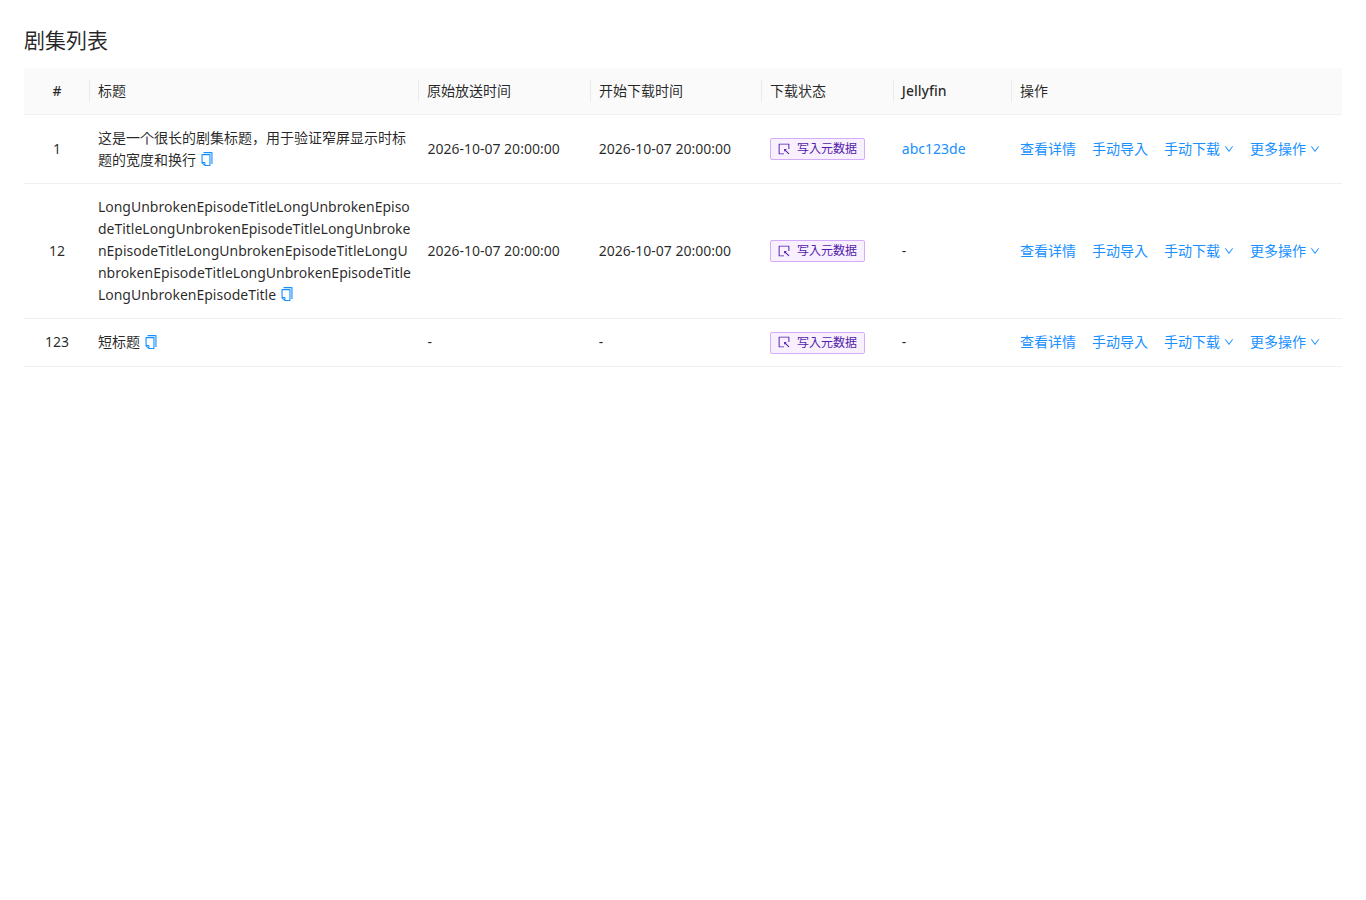
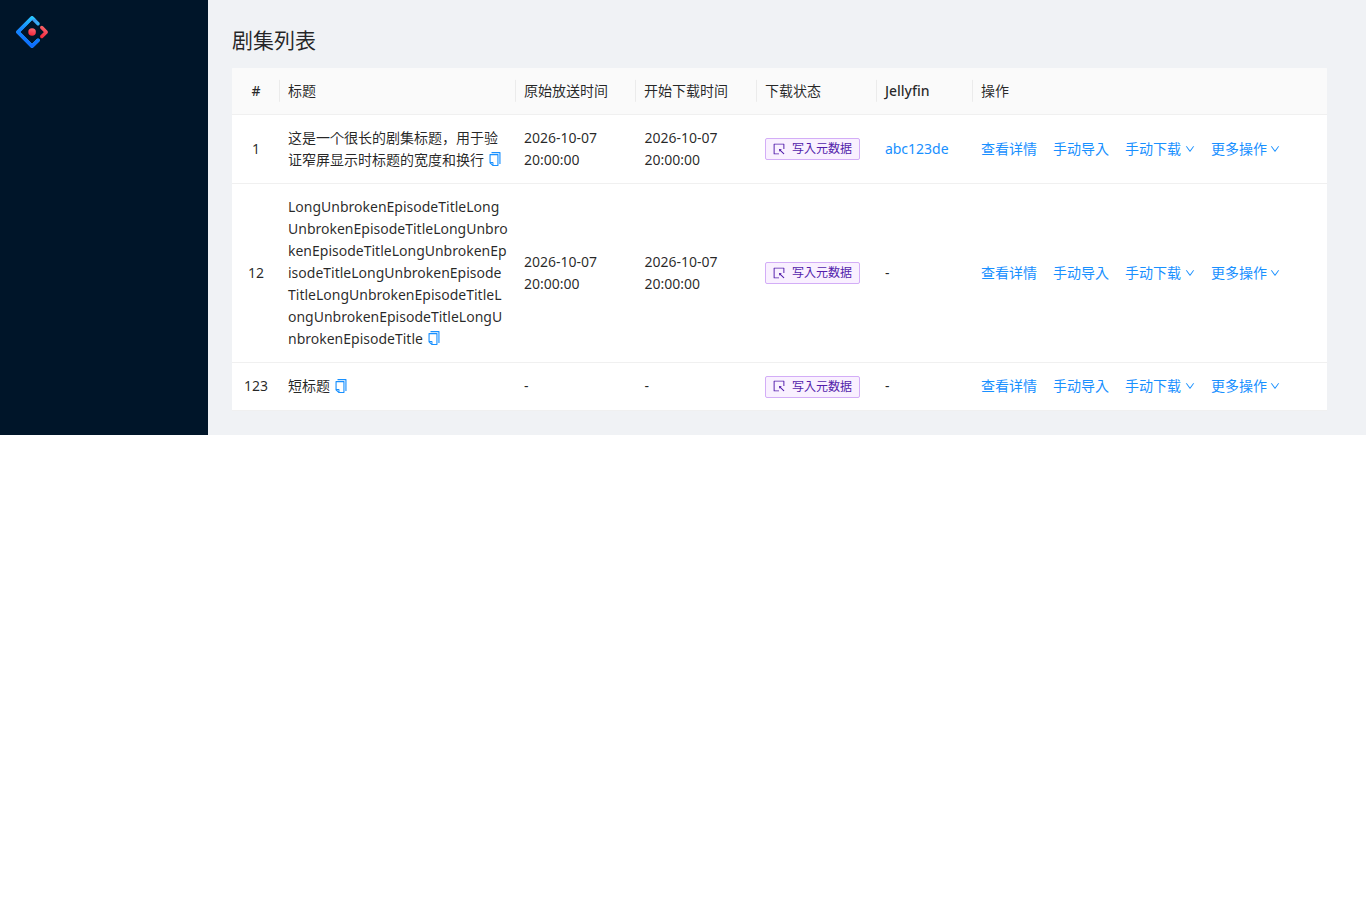
fix(admin): 按表格实际空间分配剧集列宽

diff --git a/apps/admin/src/pages/season/parts/episodes/index.tsx b/apps/admin/src/pages/season/parts/episodes/index.tsx
@@ -28,6 +28,7 @@ import { DownOutlined, InfoCircleOutlined } from '@ant-design/icons';
 import { ProFormSelect, ProFormSwitch } from '@ant-design/pro-form';
 import ProTable, { ActionType, ProColumns } from '@ant-design/pro-table';
 import { useApolloClient, useQuery } from '@apollo/client';
+import { useSize } from 'ahooks';
 import {
   Alert,
   Button,
@@ -49,6 +50,9 @@ import {
   useSeasonPageContext,
 } from '../../help';
 import styles from './index.module.less';
+
+const fixedColumnWidths = { index: 48, status: 120, jellyfin: 96 };
+const minTableWidth = 900;
 
 const EpisodesStatusContext = createContext<
   Record<number, EpisodeStatusFields> | undefined
@@ -77,12 +81,14 @@ function EpisodeStatusTag({
 }
 
 function useColumns({
+  tableWidth,
   openDownloadMagnet,
   openEpisodeDetails,
   openSearchTorrent,
   openImportSingleDialog,
   refetchEpisodesStatus,
 }: {
+  tableWidth: number;
   openEpisodeDetails: ReturnType<typeof useEpisodeDetailsDialog>[2];
   openDownloadMagnet: ReturnType<typeof useManualDownloadMagnetDialog>[2];
   openSearchTorrent: ReturnType<typeof useSearchTorrentDialog>[2];
@@ -96,38 +102,44 @@ function useColumns({
   const config = useConfig();
 
   const client = useApolloClient();
+  const timeColumnWidth = Math.min(176, Math.max(104, tableWidth * 0.11));
+  const remainingColumnWidth =
+    tableWidth -
+    fixedColumnWidths.index -
+    fixedColumnWidths.status -
+    fixedColumnWidths.jellyfin -
+    timeColumnWidth * 2;
   return useMemo(
     (): ProColumns<Episode>[] => [
       {
         title: '#',
         dataIndex: 'index',
         align: 'center',
-        width: '5%',
+        width: fixedColumnWidths.index,
       },
       {
         title: '标题',
         dataIndex: 'title',
-        width: '25%',
+        width: remainingColumnWidth * 0.4,
         copyable: true,
         ellipsis: false,
       },
       {
         title: '原始放送时间',
         dataIndex: 'rawAirTime',
-        width: '13%',
+        width: timeColumnWidth,
         valueType: 'dateTime',
       },
       {
         title: '开始下载时间',
         dataIndex: 'airTime',
-        width: '13%',
+        width: timeColumnWidth,
         valueType: 'dateTime',
       },
       {
         title: '下载状态',
         dataIndex: 'jobStatus',
-        width: '10%',
-        className: styles.statusCell,
+        width: fixedColumnWidths.status,
         render: (_, r) => (
           <EpisodeStatusTag
             episode={r}
@@ -151,7 +163,7 @@ function useColumns({
           ) : (
             '-'
           ),
-        width: '9%',
+        width: fixedColumnWidths.jellyfin,
       },
       {
         title: '操作',
@@ -292,10 +304,12 @@ function useColumns({
           </Dropdown>,
         ],
         search: false,
-        width: '25%',
+        width: remainingColumnWidth * 0.6,
       },
     ],
     [
+      timeColumnWidth,
+      remainingColumnWidth,
       openDownloadMagnet,
       openEpisodeDetails,
       openSearchTorrent,
@@ -370,7 +384,10 @@ export default function Episodes() {
     useImportMultipleDialog();
   const { episodesStatus, refetchEpisodesStatus } = useEpisodeStatus(episodes);
 
+  const tableRef = useRef<HTMLDivElement>(null);
+  const tableSize = useSize(tableRef);
   const columns = useColumns({
+    tableWidth: Math.max(minTableWidth, tableSize?.width ?? 0),
     openDownloadMagnet,
     openEpisodeDetails,
     openSearchTorrent,
@@ -521,19 +538,20 @@ export default function Episodes() {
         </div>
       </Form.Item>
       <EpisodesStatusContext.Provider value={episodesStatus}>
-        <ProTable<Episode>
-          columns={columns}
-          dataSource={episodes}
-          rowKey="id"
-          pagination={false}
-          toolBarRender={false}
-          search={false}
-          defaultSize="middle"
-          tableLayout="fixed"
-          scroll={{ x: 900 }}
-          actionRef={ref}
-          className={styles.table}
-        />
+        <div ref={tableRef} className={styles.table}>
+          <ProTable<Episode>
+            columns={columns}
+            dataSource={episodes}
+            rowKey="id"
+            pagination={false}
+            toolBarRender={false}
+            search={false}
+            defaultSize="middle"
+            tableLayout="fixed"
+            scroll={{ x: minTableWidth }}
+            actionRef={ref}
+          />
+        </div>
       </EpisodesStatusContext.Provider>
       {downloadMagnetDialog}
       {episodeDetailsDiglog}

diff --git a/apps/admin/src/pages/season/parts/episodes/index.module.less b/apps/admin/src/pages/season/parts/episodes/index.module.less
@@ -19,13 +19,6 @@
   }
 }
 
-.statusCell {
-  :global(.ant-tag) {
-    max-width: 100%;
-    white-space: normal;
-  }
-}
-
 .optionCell {
   :global(.ant-space) {
     flex-wrap: wrap;
